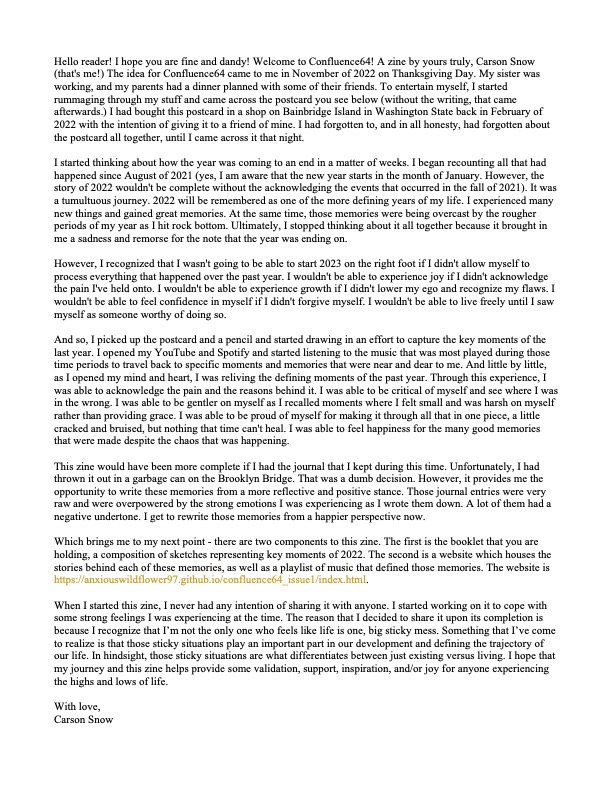
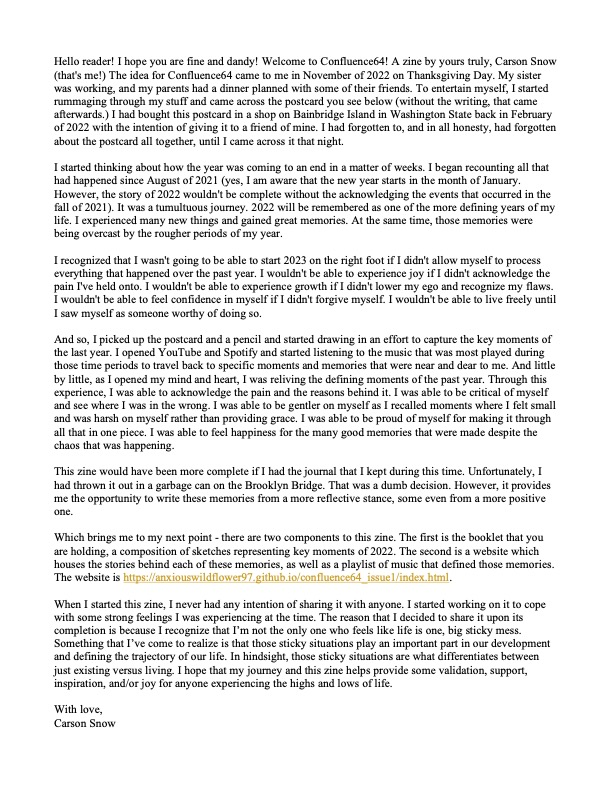
updated playlists, anecdotes

Changed region(s): [[0.0621, 0.0606, 0.9314, 0.9394]]

diff --git a/index.html b/index.html
@@ -42,10 +42,10 @@
                     <div class = "memory">
                         <h4>The inspiration for issue one of Confluence64</h4>
                         <p>Hello reader! I hope you are fine and dandy! Welcome to Confluence64! A zine by yours truly, Carson Snow (that's me!) The idea for Confluence64 came to me in November of 2022 on Thanksgiving Day. My sister was working, and my parents had a dinner planned with some of their friends. To entertain myself, I started rummaging through my stuff and came across the postcard you see below (without the writing, that came afterwards.) I had bought this postcard in a shop on Bainbridge Island in Washington State back in February of 2022 with the intention of giving it to a friend of mine. I had forgotten to, and in all honesty, had forgotten about the postcard all together, until I came across it that night.</p>
-                        <p>I started thinking about how the year was coming to an end in a matter of weeks. I began recounting all that had happened since August of 2021 (yes, I am aware that the new year starts in the month of January. However, the story of 2022 wouldn't be complete without the acknowledging the events that occurred in the fall of 2021). It was a tumultuous journey. 2022 will be remembered as one of the more defining years of my life. I experienced many new things and gained great memories. At the same time, those memories were being overcast by the rougher periods of my year as I hit rock bottom. Ultimately, I stopped thinking about it all together because it brought in me a sadness and remorse for the note that the year was ending on.</p>
-                        <p>However, I recognized that I wasn't going to be able to start 2023 on the right foot if I didn't allow myself to process everything that happened over the past year. I wouldn't be able to experience joy if I didn't acknowledge the pain I've held onto. I wouldn't be able to experience growth if I didn't lower my ego and recognize my flaws. I wouldn't be able to feel confidence in myself if I didn't forgive myself. I wouldn't be able to live freely until I saw myself as someone worthy of doing so.</p>
-                        <p>And so, I picked up the postcard and a pencil and started drawing in an effort to capture the key moments of the last year. I opened YouTube and Spotify and started listening to the music that was most played during those time periods to travel back to specific moments and memories that were near and dear to me. And little by little, as I opened my mind and heart, I was reliving the defining moments of the past year. Through this experience, I was able to acknowledge the pain and the reasons behind it. I was able to be critical of myself and see where I was in the wrong. I was able to be gentler on myself as I recalled moments where I felt small and was harsh on myself rather than providing grace. I was able to be proud of myself for making it through all that in one piece, a little cracked and bruised, but nothing that time can't heal. I was able to feel happiness for the many good memories that were made despite the chaos that was happening.</p>
-                        <p>This zine would have been more complete if I had the journal that I kept during this time. Unfortunately, I had thrown it out in a garbage can on the Brooklyn Bridge. That was a dumb decision. However, it provides me the opportunity to write these memories from a more reflective and positive stance. Those journal entries were very raw and were overpowered by the strong emotions I was experiencing as I wrote them down. A lot of them had a negative undertones. I get to rewrite those memories from a happier perspective now.</p>
+                        <p>I started thinking about how the year was coming to an end in a matter of weeks. I began recounting all that had happened since August of 2021 (yes, I am aware that the new year starts in the month of January. However, the story of 2022 wouldn't be complete without the acknowledging the events that occurred in the fall of 2021). It was a tumultuous journey. 2022 will be remembered as one of the more defining years of my life. I experienced many new things and gained great memories. At the same time, those memories were being overcast by the rougher periods of my year.</p>
+                        <p>I recognized that I wasn't going to be able to start 2023 on the right foot if I didn't allow myself to process everything that happened over the past year. I wouldn't be able to experience joy if I didn't acknowledge the pain I've held onto. I wouldn't be able to experience growth if I didn't lower my ego and recognize my flaws. I wouldn't be able to feel confidence in myself if I didn't forgive myself. I wouldn't be able to live freely until I saw myself as someone worthy of doing so.</p>
+                        <p>And so, I picked up the postcard and a pencil and started drawing in an effort to capture the key moments of the last year. I opened YouTube and Spotify and started listening to the music that was most played during those time periods to travel back to specific moments and memories that were near and dear to me. And little by little, as I opened my mind and heart, I was reliving the defining moments of the past year. Through this experience, I was able to acknowledge the pain and the reasons behind it. I was able to be critical of myself and see where I was in the wrong. I was able to be gentler on myself as I recalled moments where I felt small and was harsh on myself rather than providing grace. I was able to be proud of myself for making it through all that in one piece. I was able to feel happiness for the many good memories that were made despite the chaos that was happening.</p>
+                        <p>This zine would have been more complete if I had the journal that I kept during this time. Unfortunately, I had thrown it out in a garbage can on the Brooklyn Bridge. That was a dumb decision. However, it provides me the opportunity to write these memories from a more reflective stance, some even from a more positive one.</p>
                         <p>When I started this zine, I never had any intention of sharing it with anyone. I started working on it to cope with some strong feelings I was experiencing at the time. The reason that I decided to share it upon its completion is because I recognize that I’m not the only one who feels like life is one, big sticky mess. Something that I’ve come to realize is that those sticky situations play an important part in our development and defining the trajectory of our life. In hindsight, those sticky situations are what differentiates between just existing versus living. I hope that my journey and this zine helps provide some validation, support, inspiration, and/or joy for anyone experiencing the highs and lows of life.</p>
                         <p>With love,</p>
                         <p>Carson Snow</p>
@@ -62,9 +62,9 @@
                     <div class = "sketch">
                         <center><img src= "./assets/fall2021/stationhouse-akino-meadowlake.jpg" alt="stationhouse, akino, meadow lake" width = 75%></center>
                         <p></p>
-                        <center><iframe style="border-radius:12px" src="https://open.spotify.com/embed/playlist/6nuNAsWk0RvLpuSFY7CvR9?utm_source=generator" width="100%" height="152" frameBorder="0" allowfullscreen="" allow="autoplay; clipboard-write; encrypted-media; fullscreen; picture-in-picture" loading="lazy"></iframe></center>
+                        <center><iframe style="border-radius:12px" src="https://open.spotify.com/embed/playlist/53p6j6pL0MpVPOhswRtFjR?utm_source=generator" width="100%" height="152" frameBorder="0" allowfullscreen="" allow="autoplay; clipboard-write; encrypted-media; fullscreen; picture-in-picture" loading="lazy"></iframe></center>
                         <p></p>
-                        <center><iframe style="border-radius:12px" src="https://open.spotify.com/embed/playlist/1pC8nupHiF3WHoC8OtFAXy?utm_source=generator" width="48%" height="152" frameBorder="0" allowfullscreen="" allow="autoplay; clipboard-write; encrypted-media; fullscreen; picture-in-picture" loading="lazy"></iframe> <iframe style="border-radius:12px" src="https://open.spotify.com/embed/playlist/2mdOVkSVY7BlLjUqoipdhb?utm_source=generator&theme=0" width="48%" height="152" frameBorder="0" allowfullscreen="" allow="autoplay; clipboard-write; encrypted-media; fullscreen; picture-in-picture" loading="lazy"></iframe></center>
+                        <center><iframe style="border-radius:12px" src="https://open.spotify.com/embed/playlist/5hWjEXwG5hyuMQieZvquYl?utm_source=generator" width="48%" height="152" frameBorder="0" allowfullscreen="" allow="autoplay; clipboard-write; encrypted-media; fullscreen; picture-in-picture" loading="lazy"></iframe> <iframe style="border-radius:12px" src="https://open.spotify.com/embed/playlist/2bRQt5sNRzlHVQ2s4uiE9R?utm_source=generator" width="48%" height="152" frameBorder="0" allowfullscreen="" allow="autoplay; clipboard-write; encrypted-media; fullscreen; picture-in-picture" loading="lazy"></iframe></center>
                     </div>
 
                     <div class = "memory">
@@ -114,10 +114,13 @@
                         <p class = "OGMemories">And at this point, the conversation had moved to the form of texts.</p>
                         <p></p>
                         <p></p>
-                        <p>On September 1st, after coping with the death of a close family-friend and navigating life with a stupid ass neighbor, I was looking forward to meeting up with him for lunch. I was surprised he had suggested the idea of meeting up for food because we didn’t talk much aside from the basic good morning greeting when he’d pass by my desk to put his lunchbox in the fridge. That was the first thing that stood out - the lunchboxes. They were always bright and colorful, like the green turtle ninja one, which is the one that stood out most for me. I found it quite whimsical. It made him seem approachable, and to me, showed that he wasn’t too serious or stuffy.</p>
-                        <p>We agreed to meet at Station House. We sat by the window at a high table that had bar stools as the seat. I remember thinking how awkward the act of seating yourself on a barstool is. You’re climbing up to sit down. It’s hard to adjust your seat closer to the table once seated because your feet don’t reach the ground. Then you have to get down, move the seat closer, and shimmy back up again. Sometimes the seat was taken too close to the table and then you have to repeat the process again.</p>
-                        <p>I don’t remember the conversation all too well. I do remember he had interesting things to share, more interesting than anything I could have offered to the conversation. He travels, he sells clothes, he graduated from college early and started teaching at a young age, he already finished his master’s and is tenured. He was handsome. He had green eyes and had a good sense of style. You could tell that he was one of those rare men who look good with or without facial hair. He had a really nice smile - it embodied a strong confidence, but also humility and kindness. He was really good at maintaining eye contact with the people he spoke with.</p>
-                        <p>It was nice to be able to take a step back and do some thing new. I didn’t have many friends growing up. The pandemic didn’t help with allowing opportunities to meet new people. I was excited about fostering new friendships. To have a group of people that I’m able to fit in with and spend time with. September 1st marks the beginning of a friendship. Finally, a friend.</p>
+                        <p>On September 1st, after coping with the death of a family-friend and navigating life with a stupid ass neighbor, I was looking forward to meeting up with him for lunch. I was surprised he had suggested the idea of meeting up for food because we didn’t talk much aside from the basic good morning greeting when he’d pass by my desk to put his lunchbox in the fridge. That was the first thing that stood out - the lunchboxes. They were always bright and colorful, like the green turtle ninja one, which is the one that stood out most. I found it whimsical. It made him seem approachable, and to me, showed that he had a carefree persona. We made plans to meet up at Station House.</p>
+                        <p>Side note: At the time of writing this memory, it is February 2023. Almost three years since the world completely shut down because of the COVID-19 pandemic. I graduated the spring before in May of 2019. I wasn’t a social butterfly pre-pandemic. Ever since I was little, I struggled with making friends. Some of it was because I was a shy kid, some of it because I was bullied for my appearance. Since I didn’t have a lot of friends in school, I would put all my focus towards doing well in my classes and work. When I graduated from college, I had the realization that I missed out on the opportunity of enjoying my youth and making memories with peers who were my age. I made a few goals for myself post-graduation.</p>
+                        <ol><li>Socialize more, meet new people, try to make friends.</li><li>Go out more. Home, school, work, occasional outing with the family. My world consisted of only these three places. Any outing (like going to Canada to visit family) was done with my family. The world outside of my home and family was completely unknown to me. At 21 years old, the curiosity was finally catching up. I would need to leave home to find out what was other there.</li><li>Learn to be comfortable and confident with myself. My biggest flaw is that I am a people-pleaser. I filter many parts of myself so that I can be accepted by the people in my life, so that people don’t leave me. I kept filtering and filtering and got to the point where I didn’t really have a personality anymore. I wanted to find the real me and reconnect with who she was.</li></ol>
+                        <p>Fall of 2019 was chaotic. I left my first job for a variety of reasons, some related to the job itself, some not. I tried really hard to stay but ultimately decided it wasn’t worth it. I was constantly wishing that I would get into an accident on my way to work so I wouldn’t have to go. I started binge eating and gained a lot of weight in a short amount of time. The pandemic followed shortly after and the goals I had made for myself post-graduation didn’t pan out.</p>
+                        <p>I was really excited about meeting up with him at Station House. We were returning to somewhat of a “normal” state of life which meant that I could introduce the goal of socializing again. We sat by the window at a high table that had bar stools as the seat. I remember thinking how awkward the act of seating yourself on a barstool is. You’re climbing up to sit down. It’s hard to adjust your seat closer to the table once seated because your feet don’t reach the ground. Then you have to get down, move the seat closer, and shimmy back up again. Sometimes the seat was taken too close to the table and then you have to repeat the process again.</p>
+                        <p>I don’t remember the conversation all too well. I do remember he had interesting things to share, more interesting than anything I could have offered to the conversation. He likes to travel, he sells clothes, he graduated from college early and started teaching at a young age, he already finished his master’s and is tenured. I didn’t really look at him all too well up until this point. He was handsome and well-dressed with a unique sense of style. He had big, green eyes that shined like the ocean on sunny day. You could tell that he looked similar with or without facial hair, which is a good trait to have. Some people look like a completely different person when they shave - not bad, just different. He had a really nice smile - it embodied a strong confidence, but also humility and kindness. He was a good listener and maintained eye contact with whoever he was talking to.</p>
+                        <p>It was nice to be able to take a step back and do some thing new. I was excited about fostering new friendships. It’s funny how people come into your life. What are the chances that two people cross paths and become a part of each other’s life in any capacity? Everyday we interact with so many people, yet only some become important parts of our lives. The ones that make a difference in your life, those are miracles. September 1st marks the beginning of a friendship. Finally, a friend.</p>
 
                         <p></p>
                         <p></p>
@@ -125,14 +128,13 @@
                         <h4>Akino</h4>
                         <p>Note to self - take the subway when visiting Elmhurst. I had been driving for almost an hour and had yet to find parking. The issue wasn’t that there was zero parking available, though parking is limited in this neighborhood. The problem was that almost every parking spot that I encountered required me to parallel park. It’s not that I can’t parallel park, but it’s hard to parallel park when there is so much traffic. And you could only hold up traffic in a one way for so long before you had to move on.</p>
                         <p>Eventually, I found a parking spot farther away from the place - a good 10 to 15 minute walk. Honestly, not bad. I was about to give up and go home. I had lost all hope of finding parking. There was an oddly high amount of empty spaces which made me feel like there was a high chance of coming back to either a) a parking ticket or b) a towed car. But, I took my chances and started walking to the restaurant.</p>
-                        <p>Not only was I late, but it also meant that I’d be walking in to everyone there already, which made me nervous. If I was early or on time, I’d be walking in with other people which was less nerve wrecking. However, now I’m entering on my own, and everyone will be looking at me. And if I needed to squeeze through to sit somewhere because all the easier to sit in seats (seats on the corner, seats facing aisles) are taken, I think I might die internally. Sometimes the squeeze is tight and I end up feeling like an ogre because I’m barely making it through. My worst fear is that the day will come where my butt and thighs are too big to squeeze through and I get stuck.</p>
-                        <p>While I was nervous, I was also excited. At around this point of fall 2021, I had dropped out of my master’s program. I didn’t want to, but I was having trouble managing work, school, and the extreme fatigue that I was experiencing. I was passing out on the stairs when I’d come home from work or school. I’d later learn that I was extremely iron deficient. Who would have thought a mineral could cause so much havoc? I was devastated. Not about the iron deficiency, but about dropping out of my master’s program. I already was starting later than I had intended. I took a gap year after graduating in 2019. Then, COVID happened so I decided 2020 wasn’t the best time to start. I felt like such a failure. But, at least I had something fun to look towards in the midst of all this.</p>
+                        <p>Not only was I late, but it also meant that I’d be walking in to everyone there already, which made me nervous. If I was early or on time, I’d be walking in with other people which was less nerve wrecking. However, now I’m entering on my own. And if I needed to squeeze through to sit somewhere because all the easier to sit in seats (seats on the corner, seats facing aisles) are taken, I think I might die internally. Sometimes the squeeze is tight and I end up feeling like an ogre because I’m barely making it through. My worst fear is that the day will come where my butt and thighs are too big to squeeze through and I get stuck.</p>
+                        <p>I don’t recall if this was my second or third time going out with a larger group of people. It was nice to be invited to things - that wasn’t something that happened often. I was struggling with this new territory and experience, though. Every time I went out, I would look around and observe everyone else. Everyone always looked great. Youthful, bright, and vibrant. Enjoying their food, enjoying each others company, conversing with such ease. I felt out of place in comparison. I was worried about making sure I was acting normal and not doing anything that was awkward. Looking back, if I had attempted to breathe, loosen up, and get out of my head, it would have been better. I was thinking about all the wrong things. As I stated earlier, I struggled with binge eating and gained weight. I was struggling with feeling confident in myself. I’d be thinking about how big my thighs looked when sitting in the chair, whether people think I’m too fat to be ordering certain things, and making sure not to eat too much or too fast so that I’m not the first one to finish.</p>
+                        <p>While I was nervous, I was also excited about these social experiences. At around this point of fall 2021, I had dropped out of my master’s program. I was having trouble managing work, school, and the extreme fatigue that I was experiencing. I was passing out on the stairs when I’d come home from work or school. I’d later learn that I was extremely iron deficient. Who would have thought a mineral could cause so much havoc? It wasn’t an ideal decision. I already was starting later than I had intended. I took a gap year after graduating in 2019. Then, COVID happened so I decided 2020 wasn’t the best time to start. I felt like such a failure. But, at least I had something fun to look towards in the midst of all this.</p>
                         <p>Thankfully the seat was a corner seat so I saved myself the awkwardness of having to shimmy through to squeeze in somewhere. But, the seat was across from him and I knew I looked ugly as fuck, so that sucked ass. He looked great, but when didn’t he.</p>
-                        <p>To make matters worse, everyone ordered already. What made that bad was that I didn’t know anything about sushi or Japanese cuisine as I never had it before. This was my first time. Since a buffet was ordered, I decided the best course of action was to try the food ordered for that. You can imagine my horror when most of the food ordered was raw fish. I tried a few pieces but it honestly wasn’t my cup of tea. Makes me think why is it easier to eat certain animals like chicken and turkey, but harder to digest (mentally and physically) things like raw fish? What in our mind makes one meat more “acceptable” to eat and others revolting at the thought of it? I don’t have an answer to this, but raw fish was a loss.</p>
-                        <p>I ended up ordering some fries. No disrespect to Akino, but the fries were not good. Sushi is their expertise for sure. The fries were most definitely the frozen shoestring variety that can be found at grocery stores. </p>
-                        <p>I remember thinking how great everyone looked. Youthful, bright, and vibrant. Enjoying their food, enjoying each others company. Conversing with such ease. I felt so out of place in comparison. Looking back, I think if I had attempted to loosen up and stop overthinking everything, it would have been better. I’d get way too in my head and think about all the wrong things instead of focusing on making a genuine connection with the person in front of me. I’d be thinking about how big my thighs looked when sitting on a chair, how my gray hairs must be shining like floss, how my acne must look so revolting, how ugly I am in comparison to the person in front of me. News flash - wrong things to think about when socializing. If this is all that is going through your head, you’re sabotaging yourself from getting to know great people who deserve to be given proper attention. You miss out on the chance of connecting with people in a meaningful way and the opportunity to foster these connections into something more. Don’t do this, there is a 99.9% chance that they probably aren’t thinking about this at all. And if they are, they are not the type of people you want to be with. </p>
-                        <p>The night ended with dessert. I had red bean ice cream. It’s a very pretty color, but it tasted like vanilla ice cream to me so I’m not really sure if the purpose of the bean was to add natural color or if there was supposed to be an added flavor. But what do I know, I’m not a food critic.</p>
-                        <p>Thankfully my car was still there and I did not receive a parking ticket. Despite how awkward I felt through the night, it was a change from how most of my nights were - at home watching tv. And he walked me to my car which was nice of him. I had to drive him back though since I had parked far from the restaurant. He sort of disappeared the second half of the night. I later learned that he had stepped out with another girl. I’m not going to lie, I kind of felt a little jealous. I never felt jealousy, but that day I did. I don’t like that feeling, it’s really icky. The reality was that he was way too out of my league in any capacity, romantic or platonic. </p>
+                        <p>To make matters worse, everyone ordered already. What made that bad was that I didn’t know anything about sushi or Japanese cuisine as I never had it before. This was my first time. Growing up, my family and I would go to a handful of restaurants, but usually did take out and ate at home. So, while NYC has an amazing food scene, I have not even experienced a fraction of it because it wasn’t something that I was aware of. Since a buffet was ordered, I decided the best course of action was to try the food ordered for that. You can imagine my horror when most of the food ordered was raw fish. I tried a few pieces but it honestly wasn’t my cup of tea. Makes me think why is it easier to eat certain animals like chicken and turkey, but harder to digest (mentally and physically) things like raw fish? What in our mind makes one meat more “acceptable” to eat and others revolting at the thought of it? I don’t have an answer to this, but raw fish was a loss.</p>
+                        <p>I ended up ordering some fries. No disrespect to Akino, but the fries were not good. Sushi is their expertise for sure. The fries were most definitely the frozen shoestring variety that can be found at grocery stores. I remember that we were struggling with finishing the items ordered from the buffet. Initially, I didn’t think it was a big deal. What’s the problem in leaving food that we were unable to finish? Couldn’t we just doggy bag it? I later learned that we would be charged extra for any wasted food. It was quite comical. Reminded me of that Drake and Josh episode where they were rushing to pack sushi. Except, instead of packing sushi, we were rushing to eat it, hide it, spreading it out across plates to make it look like crumbs. The night ended with dessert. I had red bean ice cream. It’s a very pretty color, but it tasted like vanilla ice cream to me so I’m not really sure if the purpose of the bean was to add natural color or if there was supposed to be an added flavor. But what do I know, I’m not a food critic.</p>
+                        <p>Thankfully my car was still there and I did not receive a parking ticket. Despite how awkward I felt through the night, it was a change from how most of my nights were - at home watching tv. And he walked me to my car which was nice of him. I had to drive him back though since I had parked far from the restaurant. He sort of disappeared the second half of the night. I later learned that he had stepped out with another girl. I’m not going to lie, I kind of felt a little jealous. I never felt jealousy, but that day I did. I don’t like that feeling, it’s really icky. The reality was that he was way too out of my league in any capacity, romantic or platonic.</p>
 
                         <p></p>
                         <p></p>
@@ -155,14 +157,14 @@
                     <div class = "sketch">
                         <center><img src= "./assets/fall2021/therapy_steele.jpg" alt="brooklyn steele and therapy" width = 75%></center>
                         <p></p>
-                        <center><iframe style="border-radius:12px" src="https://open.spotify.com/embed/playlist/0KcDe9Ybort3hkrZRXTvmJ?utm_source=generator" width="48%" height="152" frameBorder="0" allowfullscreen="" allow="autoplay; clipboard-write; encrypted-media; fullscreen; picture-in-picture" loading="lazy"></iframe> <iframe style="border-radius:12px" src="https://open.spotify.com/embed/playlist/1ZY7WJrHvozBEM7G1QExJV?utm_source=generator" width="48%" height="152" frameBorder="0" allowfullscreen="" allow="autoplay; clipboard-write; encrypted-media; fullscreen; picture-in-picture" loading="lazy"></iframe></center>
+                        <center><iframe style="border-radius:12px" src="https://open.spotify.com/embed/playlist/1soxlelpoTacOozPYuwoVx?utm_source=generator" width="48%" height="152" frameBorder="0" allowfullscreen="" allow="autoplay; clipboard-write; encrypted-media; fullscreen; picture-in-picture" loading="lazy"></iframe> <iframe style="border-radius:12px" src="https://open.spotify.com/embed/playlist/4DIMm90GslLu3rtE94WVv1?utm_source=generator" width="48%" height="152" frameBorder="0" allowfullscreen="" allow="autoplay; clipboard-write; encrypted-media; fullscreen; picture-in-picture" loading="lazy"></iframe></center>
                     </div>
                 </div>
     
                 <div class = "seattle">
                     <div class = "sketch">
                         <center><img src= "./assets/seattle/seattle.jpg" alt="seattle" width = 75%></center>
-                        <center><iframe style="border-radius:12px" src="https://open.spotify.com/embed/playlist/5XsB0Cn2tFdqxgdd9llRo6?utm_source=generator" width="100%" height="152" frameBorder="0" allowfullscreen="" allow="autoplay; clipboard-write; encrypted-media; fullscreen; picture-in-picture" loading="lazy"></iframe></center>
+                        <center><iframe style="border-radius:12px" src="https://open.spotify.com/embed/playlist/3emxYN8D5F8xRibLtuyFcO?utm_source=generator" width="100%" height="152" frameBorder="0" allowfullscreen="" allow="autoplay; clipboard-write; encrypted-media; fullscreen; picture-in-picture" loading="lazy"></iframe></center>
                     </div>
 
                     <div class = "memory">
@@ -177,7 +179,7 @@
 
                     <div class = "sketch">
                         <center><img src= "./assets/beacon/beacon.jpg" alt="seattle" width = 75%></center>
-                        <center><iframe style="border-radius:12px" src="https://open.spotify.com/embed/playlist/36XipdlFWemfFJBAAtUfpx?utm_source=generator" width="100%" height="152" frameBorder="0" allowfullscreen="" allow="autoplay; clipboard-write; encrypted-media; fullscreen; picture-in-picture" loading="lazy"></iframe></center>
+                        <center><iframe style="border-radius:12px" src="https://open.spotify.com/embed/playlist/3JaFnW2aGRvjihGS5zJU50?utm_source=generator" width="100%" height="152" frameBorder="0" allowfullscreen="" allow="autoplay; clipboard-write; encrypted-media; fullscreen; picture-in-picture" loading="lazy"></iframe></center>
                     </div>
     
                 </div>
@@ -185,7 +187,7 @@
                 <div class = "selfridge">
                     <div class = "sketch">
                         <center><img src= "./assets/apt/selfridge.jpg" alt="selfridge" width = 75%></center>
-                        <center><iframe style="border-radius:12px" src="https://open.spotify.com/embed/playlist/5CYWioHo1YluiV7GlJ7NWt?utm_source=generator" width="100%" height="152" frameBorder="0" allowfullscreen="" allow="autoplay; clipboard-write; encrypted-media; fullscreen; picture-in-picture" loading="lazy"></iframe></center>
+                        <center><iframe style="border-radius:12px" src="https://open.spotify.com/embed/playlist/7Gp6DXtsuA0Dh39sM9RKT9?utm_source=generator" width="100%" height="152" frameBorder="0" allowfullscreen="" allow="autoplay; clipboard-write; encrypted-media; fullscreen; picture-in-picture" loading="lazy"></iframe></center>
                     </div>
 
                     <div class = "memory">
@@ -200,14 +202,14 @@
 
                     <div class = "sketch">
                         <center><img src= "./assets/concerts.jpg" alt="barclay, metlife, govball" width = 75%></center>
-                        <center><iframe style="border-radius:12px" src="https://open.spotify.com/embed/playlist/6lP6CsZt2Lw8Xi8A3AqYWg?utm_source=generator" width="100%" height="152" frameBorder="0" allowfullscreen="" allow="autoplay; clipboard-write; encrypted-media; fullscreen; picture-in-picture" loading="lazy"></iframe></center>
+                        <center><iframe style="border-radius:12px" src="https://open.spotify.com/embed/playlist/4Bv1SlvYjchnGvKEyMk0xy?utm_source=generator" width="100%" height="152" frameBorder="0" allowfullscreen="" allow="autoplay; clipboard-write; encrypted-media; fullscreen; picture-in-picture" loading="lazy"></iframe></center>
                     </div>
                 </div>
 
                 <div class = "june28">
                     <div class = "sketch">
                         <center><img src= "./assets/june28/june28_sketch.jpg" alt="june 28" width = 75%></center>
-                        <center><iframe style="border-radius:12px" src="https://open.spotify.com/embed/playlist/3IB1VzlAlBtXgBSos3fQei?utm_source=generator" width="100%" height="152" frameBorder="0" allowfullscreen="" allow="autoplay; clipboard-write; encrypted-media; fullscreen; picture-in-picture" loading="lazy"></iframe></center>
+                        <center><iframe style="border-radius:12px" src="https://open.spotify.com/embed/playlist/71BPYzRTol5CSd4OYcmmQJ?utm_source=generator" width="100%" height="152" frameBorder="0" allowfullscreen="" allow="autoplay; clipboard-write; encrypted-media; fullscreen; picture-in-picture" loading="lazy"></iframe></center>
                     </div>
 
                     <div class = "memory">
@@ -222,14 +224,14 @@
 
                     <div class = "sketch">
                         <center><img src= "./assets/new_beginnings/new_beginnings_collage.jpg" alt="new beginnings" width = 75%></center>
-                        <center><iframe style="border-radius:12px" src="https://open.spotify.com/embed/playlist/5kdjZFqkXKTBwaCmvqqt0R?utm_source=generator" width="100%" height="152" frameBorder="0" allowfullscreen="" allow="autoplay; clipboard-write; encrypted-media; fullscreen; picture-in-picture" loading="lazy"></iframe></center>
+                        <center><iframe style="border-radius:12px" src="https://open.spotify.com/embed/playlist/3j4bcZHB59liHS8eoVcPrr?utm_source=generator" width="100%" height="152" frameBorder="0" allowfullscreen="" allow="autoplay; clipboard-write; encrypted-media; fullscreen; picture-in-picture" loading="lazy"></iframe></center>
                     </div>
                 </div>
     
                 <div class = "inharmony">            
                     <div class = "sketch">
                         <center><img src= "./assets/harsh_endings/harsh_endings_collage.jpg" alt="harsh endings" width = 75%></center>
-                        <center><iframe style="border-radius:12px" src="https://open.spotify.com/embed/playlist/1WzzxBS2R2Yw65pRVJWOaM?utm_source=generator" width="100%" height="152" frameBorder="0" allowfullscreen="" allow="autoplay; clipboard-write; encrypted-media; fullscreen; picture-in-picture" loading="lazy"></iframe></center>
+                        <center><iframe style="border-radius:12px" src="https://open.spotify.com/embed/playlist/7AeWbfA3Ncrr7YCSxHQWQ0?utm_source=generator" width="100%" height="152" frameBorder="0" allowfullscreen="" allow="autoplay; clipboard-write; encrypted-media; fullscreen; picture-in-picture" loading="lazy"></iframe></center>
                     </div>
 
                     <div class = "memory">
@@ -243,8 +245,8 @@
                     </div>
 
                     <div class = "sketch">
-                        <center><img src= "./assets/healing/healing_collage.jpg" alt="healing" width = 75%></center>
-                        <center><iframe style="border-radius:12px" src="https://open.spotify.com/embed/playlist/0VF0KR114P5ZAGM0xgx5jq?utm_source=generator" width="100%" height="152" frameBorder="0" allowfullscreen="" allow="autoplay; clipboard-write; encrypted-media; fullscreen; picture-in-picture" loading="lazy"></iframe></center>
+                        <center><img src= "./assets/healing/healing_collage.jpg" alt="healing" width="100%"></center>
+                        <center><iframe style="border-radius:12px" src="https://open.spotify.com/embed/playlist/2jBWnyW4tjnOGoTF9m0Qsb?utm_source=generator" width="100%" height="152" frameBorder="0" allowfullscreen="" allow="autoplay; clipboard-write; encrypted-media; fullscreen; picture-in-picture" loading="lazy"></iframe></center>
                     </div>
                 </div>
 

diff --git a/style.css b/style.css
@@ -77,7 +77,7 @@ h4 {
     font-size: 22px;
 }
 
-p {
+p, ol {
     font-family: 'La Belle Aurore';
     font-size: 20px;
 }
